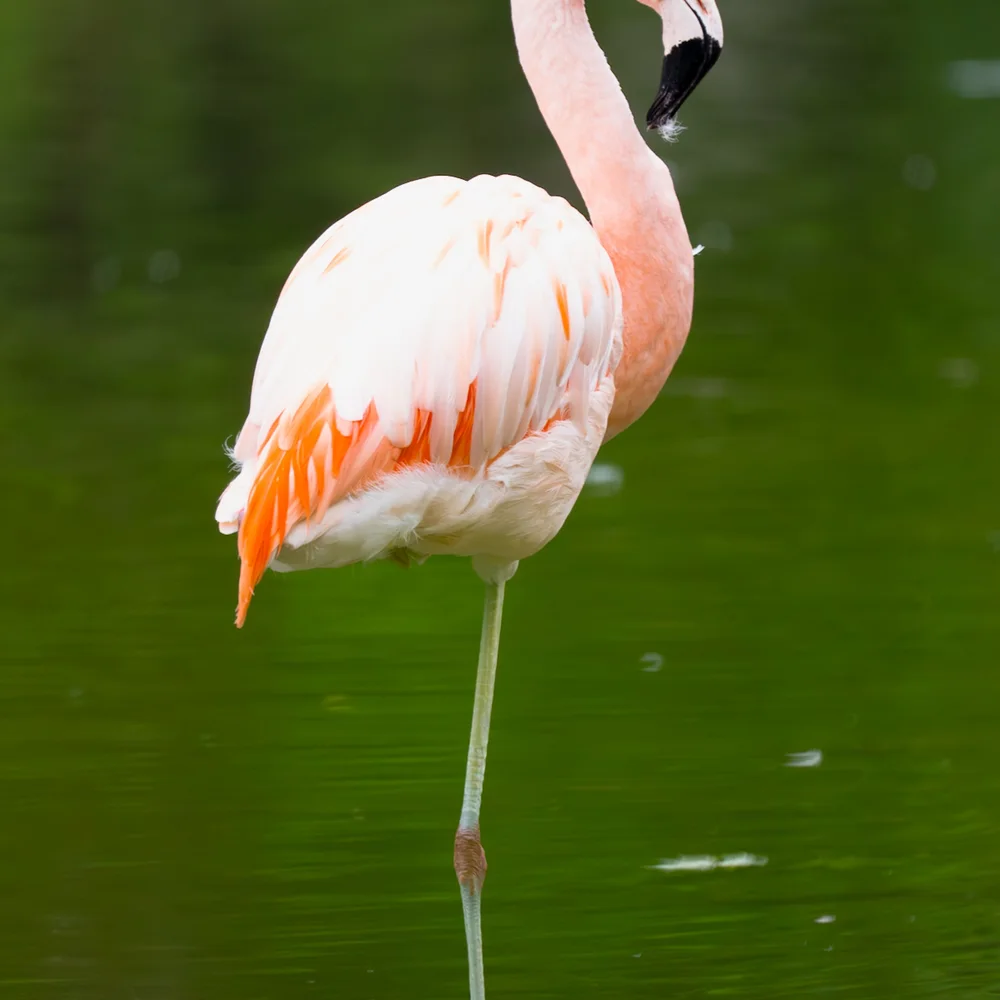
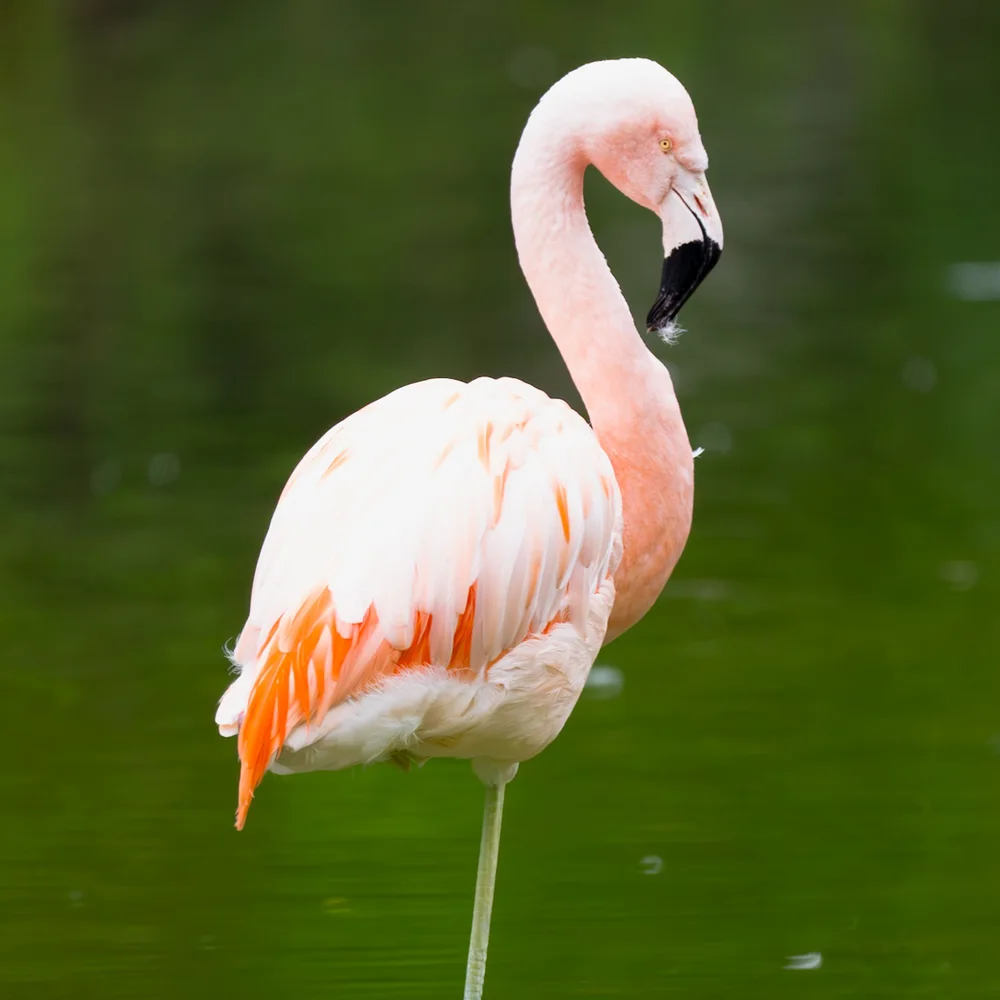
Photos: better crops for flamingo, hippo, donkey and cicada; new lobster and shrimp
The pipeline now supports per-photo crop placement (fx/fy slide the square
window within the slack) so off-center subjects keep their head, ears or
antennae after the 1000x1000 crop. Lobster swaps to a vivid face-on American
lobster; shrimp swaps the busy mantis-reef shot for a clean peppermint shrimp.

diff --git a/assets-src/PHOTO-CREDITS.md b/assets-src/PHOTO-CREDITS.md
@@ -54,12 +54,12 @@
 - beluga: unknown — unverified — NewsForKids.net (via image search) — https://z-cdn.chatglm.cn/image-search-mcp/images-ppt/333e41e1f068.jpg
 - pilotwhale: Cayambe — CC BY-SA 3.0 — Wikimedia Commons — https://upload.wikimedia.org/wikipedia/commons/f/fd/Globicephala_macrorhynchus_Tenerife_2012_%28cropped%29.jpg
 - otter: unknown — unverified — A-Z Animals (via image search) — https://z-cdn.chatglm.cn/image-search-mcp/images-ppt/24ab64987254.jpg
-- shrimp: unknown — unverified — Unsplash (via image search; peacock mantis shrimp) — https://z-cdn.chatglm.cn/image-search-mcp/images-ppt/5f59b1817b22.jpg
+- shrimp: unknown — unverified — AlgaeBarn (via image search; peppermint/cleaner shrimp) — https://z-cdn.chatglm.cn/image-search-mcp/images-ppt/7f0c4a5472cf.jpg
 - turtle: Brocken Inaglory — CC BY-SA 3.0 — Wikimedia Commons — https://upload.wikimedia.org/wikipedia/commons/e/e5/Green_turtle_swimming_over_coral_reefs_in_Kona.jpg
 - walrus: unknown — unverified — Pexels (via image search) — https://z-cdn.chatglm.cn/image-search-mcp/images-ppt/c913266339dc.jpeg
 - sealion: unknown — unverified — Unsplash (via image search) — https://z-cdn.chatglm.cn/image-search-mcp/images-ppt/e83267632033.jpg
 - crab: unknown — unverified — Pexels (via image search) — https://z-cdn.chatglm.cn/image-search-mcp/images-ppt/21d0931e6284.jpeg
-- lobster: Diego Delso — CC BY-SA 4.0 — Wikimedia Commons (ornate/spiny rock lobster) — https://upload.wikimedia.org/wikipedia/commons/9/95/Langosta_%28Panulirus_ornatus%29%2C_Nosy_Iranja%2C_Madagascar%2C_2025-09-17%2C_DD_07.jpg
+- lobster: unknown — unverified — A-Z Animals (via image search; American lobster) — https://z-cdn.chatglm.cn/image-search-mcp/images-ppt/2e5f24c369c7.jpg
 - porpoise: unknown — unverified — Monterey Bay Whale Watch (via image search) — https://z-cdn.chatglm.cn/image-search-mcp/images-ppt/87be0b2d0758.jpg
 - fly: unknown — unverified — Unsplash (via image search) — https://z-cdn.chatglm.cn/image-search-mcp/images-ppt/16b22e01224d.jpg
 - wasp: unknown — unverified — Unsplash (via image search) — https://z-cdn.chatglm.cn/image-search-mcp/images-ppt/2f71aa55f723.jpg
